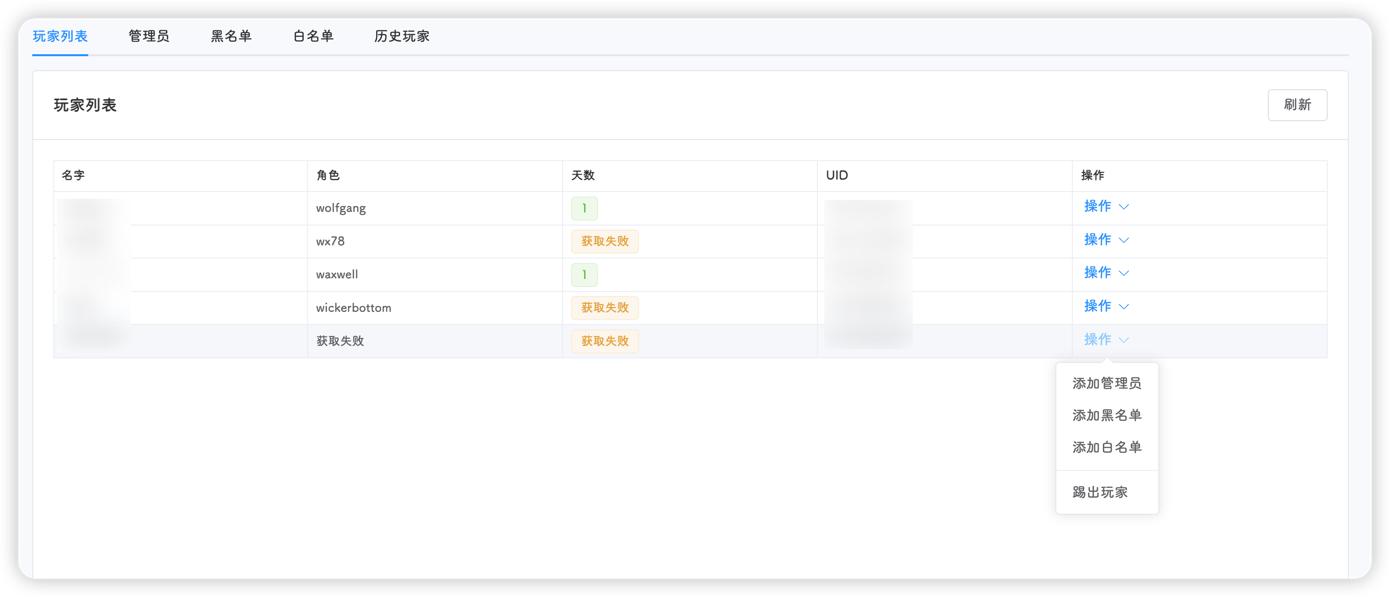
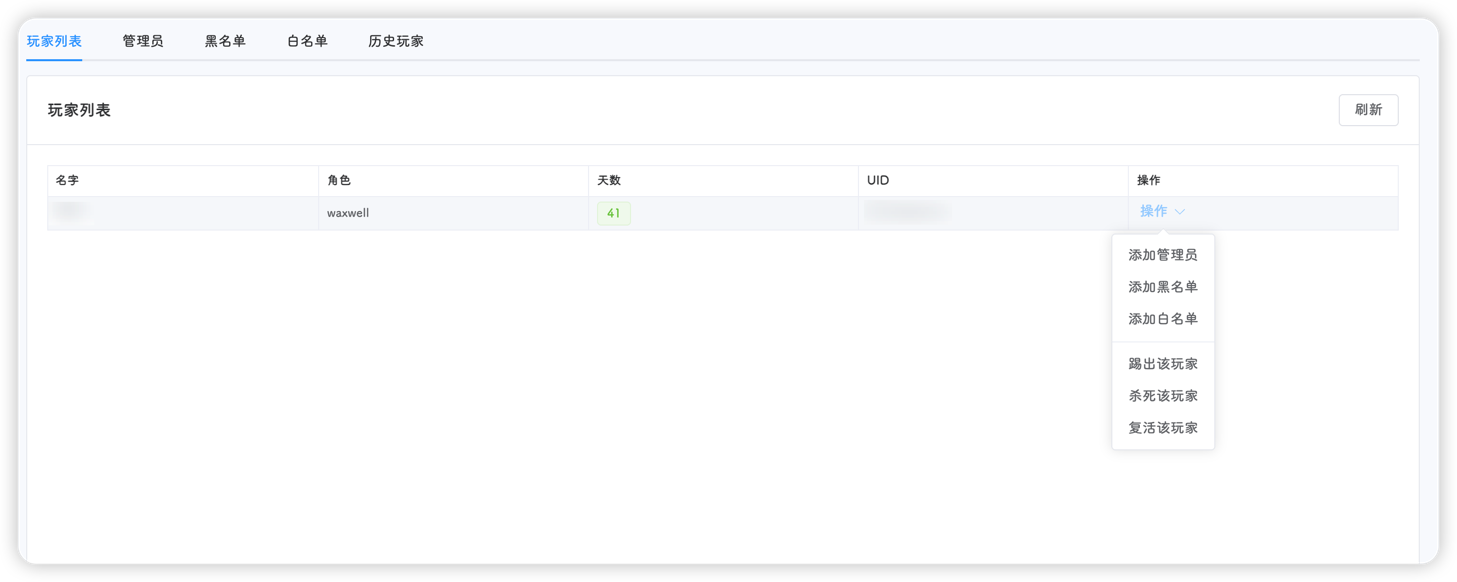
update

diff --git a/src/docs/setting/room.md b/src/docs/setting/room.md
@@ -24,6 +24,7 @@ date: 2025-06-11
 - 玩家数量：游戏中的最大玩家数 !!该设置的最小值为2，真的不想让你一个人玩《饥荒==联机版==》啊!!
 - 回档天数：也就是最大可回档的天数，即配置文件中的snapshot，该值越大，你的存档文件就越大，回档天数越多`c_rollback(15) 回15天`
 - 玩家投票：默认否，玩家能否在游戏中发起投票，如果开启，玩家可在游戏中投票踢人、回档、重置世界
+- 控制台：默认开启，是否可以使用控制台命令
 - 房间密码：进入你的存档是否要输入密码，无密码就不填
 - **令牌**：饥荒服务器的令牌，需要去klei官网申请，详细步骤在[快速上手-令牌申请](../../quick-start/token.md)页面
 
@@ -90,11 +91,11 @@ date: 2025-06-11
 
 当所有世界都配置完成后，点击下一步即可
 
-#### 加入其他虚拟机世界
+#### 加入其他云服务器世界
 
-如果需要加入大型模组，2C2G的配置不够用，可以通过多台机器创建同一个世界，由此来分担虚拟机性能压力
+如果需要加入大型模组，2C2G的配置不够用，可以通过多台机器创建同一个世界，由此来分担云服务器性能压力
 
-例如，有两台虚拟机，**公网IP**分别为`1.1.1.1`和`2.2.2.2`
+例如，有两台云服务器，**公网IP**分别为`1.1.1.1`和`2.2.2.2`
 
 1. 在`1.1.1.1`和`2.2.2.2`分别安装饥荒管理平台，并分别创建相同的集群，在房间设置的第一步填写的内容一致
 

diff --git a/src/docs/cluster.md b/src/docs/cluster.md
@@ -63,15 +63,39 @@ order: 3
 
 ![集群端口](assets/cluster-manage-port.png)
 
+:::tip
+冲突的端口会高亮显示
+:::
+
+#### 激活、关闭集群
+
+集群的状态有两种，分别是**激活**和**关闭**，关闭的集群不会因为平台的任何自动化操作(自动重启、自动备份、自动保活等)而启动，除非手动启动
+
+- **激活**操作平台会执行以下操作：
+
+  - 将集群的状态标记为激活
+
+  - 将各种定时任务开启(自动重启、自动更新、自动保活等)
+
+  - 启动该集群下的所有世界
+
+- **关闭**操作平台会执行以下操作：
+
+  - 将集群的状态标记为关闭
+
+  - 将各种定时任务禁用(自动重启、自动备份、自动保活等)
+
+  - 关闭该集群下的所有世界
+
+::: tip
+自动、手动更新游戏后，激活的集群会启动所有的世界，关闭的集群不会
+:::
+
 #### 集群修改
 
 点击右侧的**修改**按钮，即可对集群进行修改，目前只支持修改集群昵称
 
 ![集群修改](assets/cluster-update.png)
-
-#### 集群关闭
-
-点击右侧的**关闭**按钮，即可关闭集群的所有世界，该操作还会自动的关闭自动重启、自动备份、定时重启、定时通知、自动保活等功能
 
 #### 集群删除
 

diff --git a/src/docs/setting/player.md b/src/docs/setting/player.md
@@ -27,10 +27,12 @@ date: 2025-06-10
 - **添加管理员**：将指定玩家添加到`adminlist.txt`管理员名单中
 - **添加黑名单**：将指定玩家添加到`blocklist.txt`黑名单中
 - **添加白名单**：将指定玩家添加到`whitelist.txt`白名单中，并在`cluster.ini`文件中自动添加`whitelist_slots`预留位
-- **踢出玩家**：将指定的玩家踢出游戏
+- **踢出该玩家**：将指定的玩家踢出游戏
+- **杀死该玩家**：将指定的玩家杀死
+- **复活该玩家**：将指定的玩家复活
 
 ::: tip
-添加三个名单的操作需要重启饥荒服务器才能生效，踢出玩家操作即时生效
+添加三个名单的操作需要重启饥荒服务器才能生效，后三个操作即时生效
 :::
 
 ## 管理员
